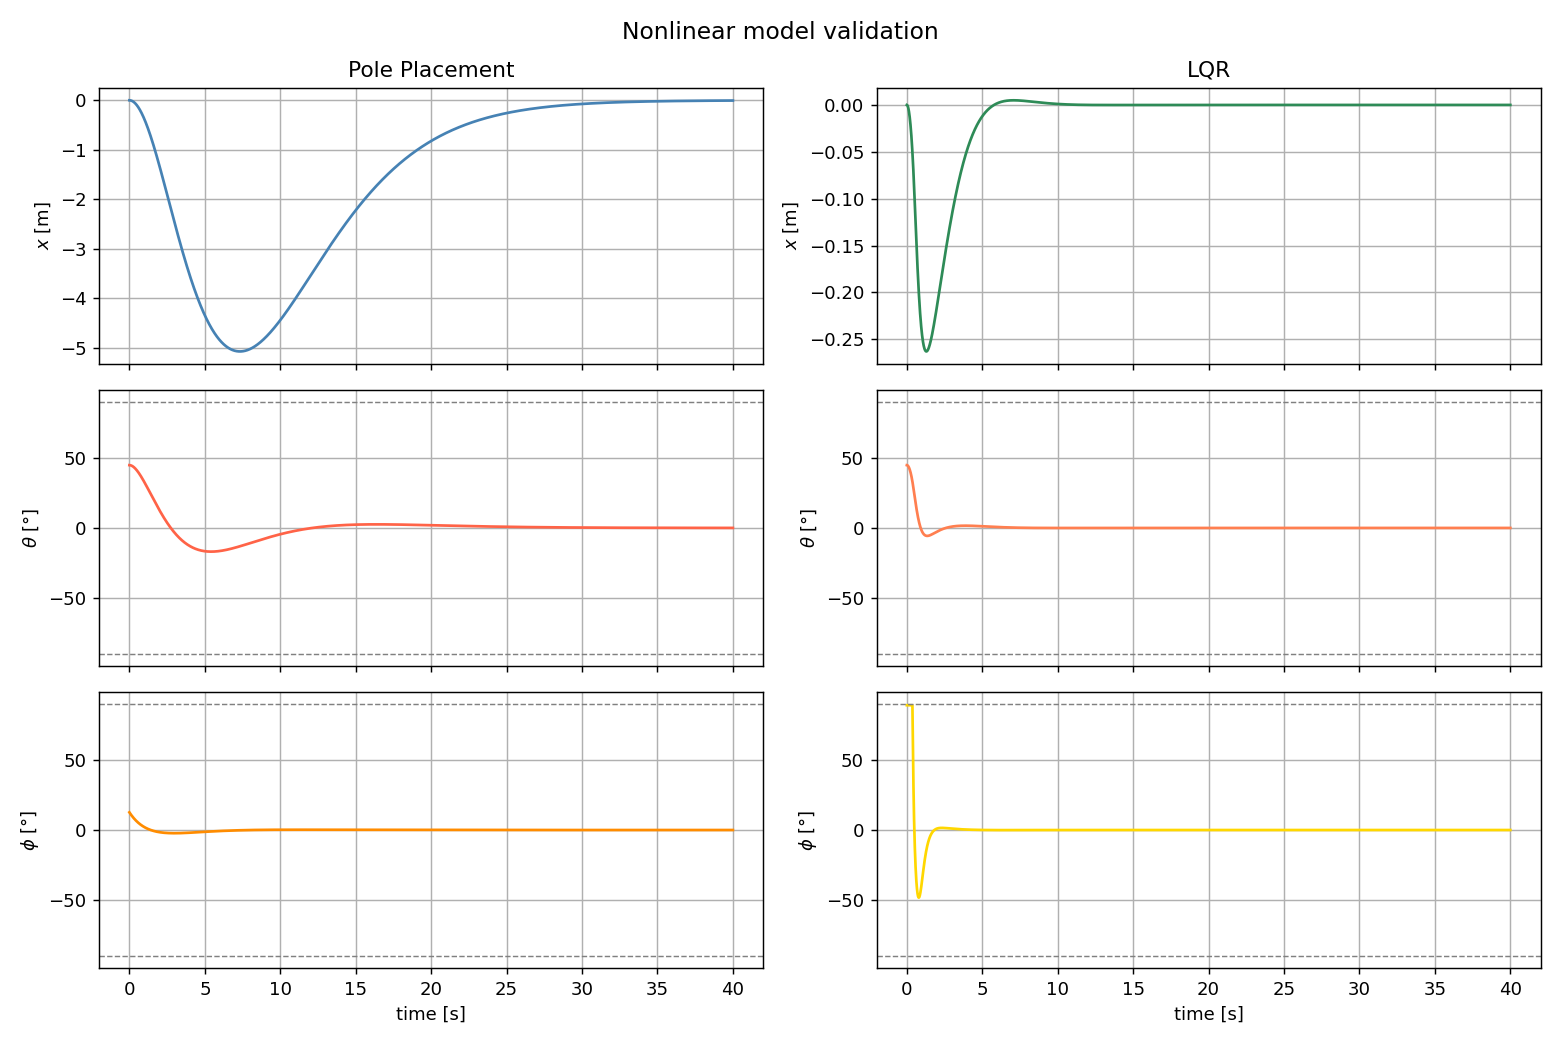
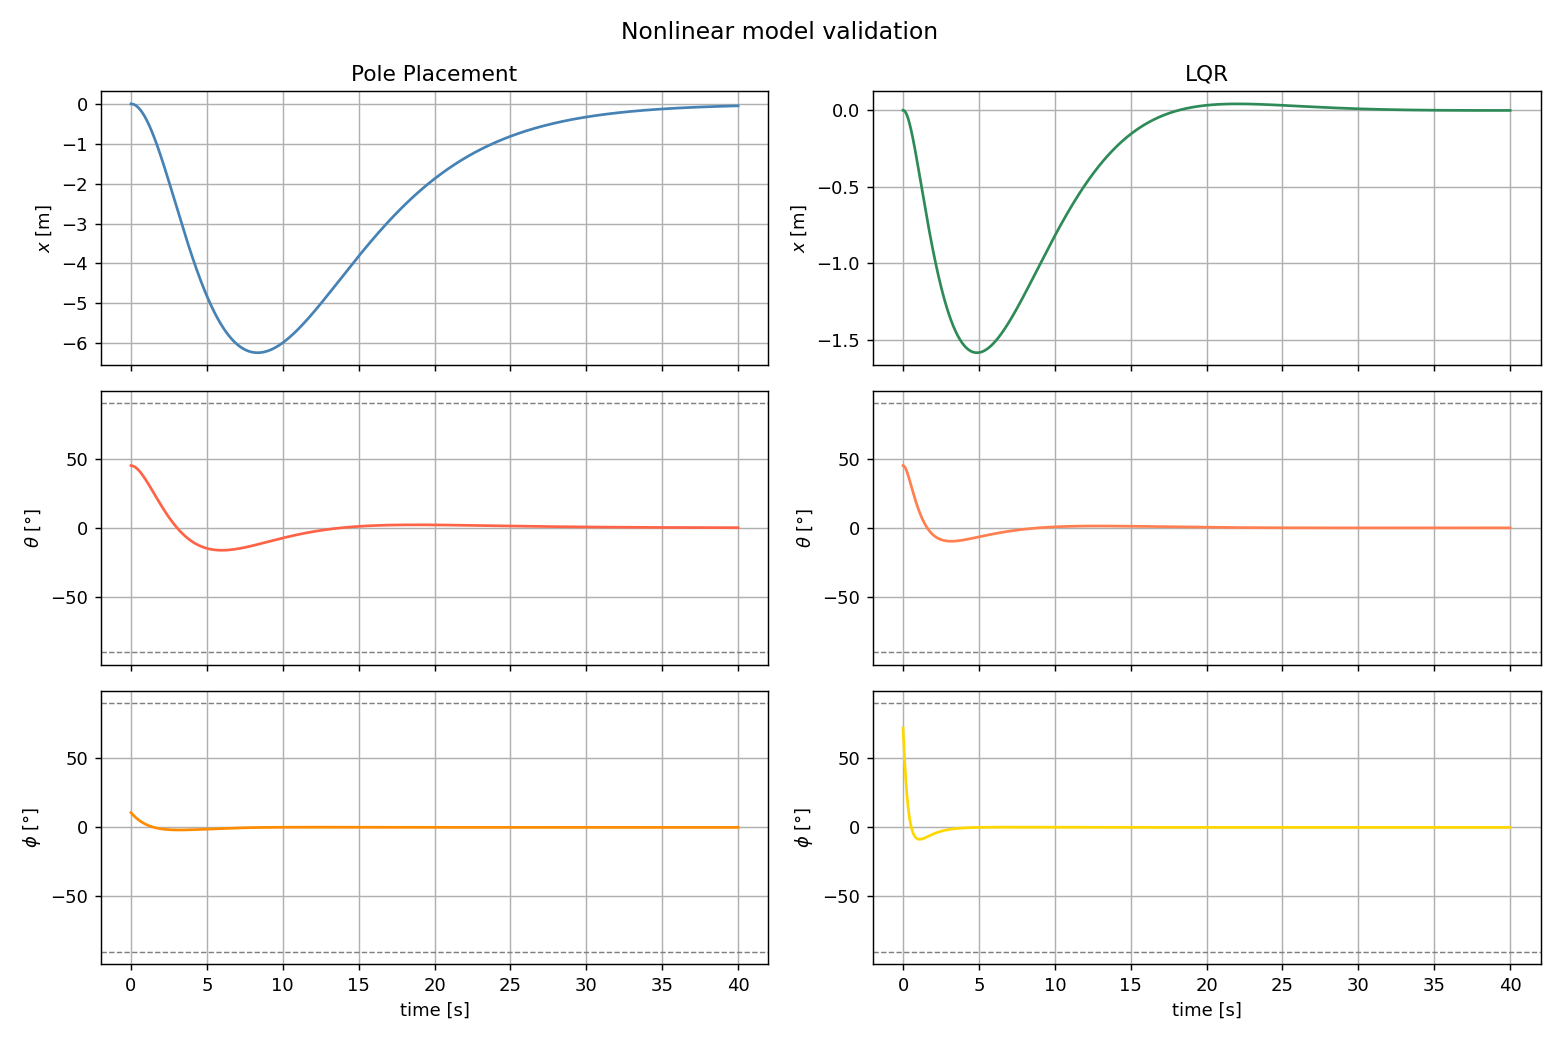
Interprétation géométrique de h

diff --git a/notebook-day-3.py b/notebook-day-3.py
@@ -2254,6 +2254,78 @@ def _(mo):
 @app.cell(hide_code=True)
 def _(mo):
     mo.md(r"""
+    ### 🔓 Solution
+    ### Interprétation géométrique de \( h \)
+
+    On a :
+    \[
+    h=
+    \begin{bmatrix}
+    x - (\ell/6)\sin\theta \\
+    y + (\ell/6)\cos\theta
+    \end{bmatrix}
+    \]
+
+    Cette expression peut s’écrire comme :
+    \[
+    h=
+    \begin{bmatrix}
+    x\\y
+    \end{bmatrix}
+    +\frac{\ell}{6}
+    \begin{bmatrix}
+    -\sin\theta\\
+    \cos\theta
+    \end{bmatrix}
+    \]
+
+    #### 🔎 Interprétation
+
+    - \((x,y)\) est le **centre de masse du booster**.
+    - Le vecteur
+      \[
+      \frac{\ell}{6}(-\sin\theta,\cos\theta)
+      \]
+      est un vecteur dirigé **le long de l’axe du booster**, orienté vers le haut.
+    - Sa norme vaut \(\ell/6\).
+
+    👉 Donc **\(h\) représente la position d’un point situé sur l’axe du booster, à une distance \(\ell/6\) du centre de masse vers le haut**.
+
+    #### 📐 Cas particulier
+
+    Si \(\theta = 0\) (booster vertical) :
+    \[
+    h=
+    \begin{bmatrix}
+    x\\
+    y+\ell/6
+    \end{bmatrix}
+    \]
+
+     Le point \(h\) est simplement **au-dessus du centre de masse**.
+
+    #### 🧠 Intuition
+
+    \(h\) correspond à un **point fixe attaché au corps du booster** (par exemple proche du haut), utilisé comme point de référence pour décrire sa position ou contrôler sa trajectoire.
+
+    #### ✏️ Schéma
+
+        sommet
+          ^
+          |
+          |   h •   ← point à ℓ/6 du centre
+          |
+          •   ← centre de masse (x,y)
+          |
+          |
+       base / réacteur
+    """)
+    return
+
+
[email redacted](hide_code=True)
+def _(mo):
+    mo.md(r"""
     ## 🧩 First and Second-Order Derivatives
 
     Compute $\dot{h}$ as a function of $\dot{x}$, $\dot{y}$, $\theta$ and $\dot{\theta}$ (and constants) and then $\ddot{h}$ as a function of $\theta$ and $z$ (and constants) when the auxiliary system is plugged in the booster.

diff --git a/notebook-day-2.py b/notebook-day-2.py
@@ -1846,10 +1846,10 @@ def _(A_lat, B_lat, np, plt, solve_ivp):
         plt.suptitle("Contrôleur par placement de pôles $K_{pp}$")
         plt.tight_layout()
         plt.show()
-        return (K_pp,)
+        return K_pp,
 
-    _()
-    return
+    K_pp, = _()
+    return K_pp,
 
 
 @app.cell(hide_code=True)
@@ -2002,11 +2002,12 @@ def _(A_lat, B_lat, np, plt, solve_ivp):
 
         plt.suptitle("Contrôleur LQR $K_{oc}$")
         plt.tight_layout()
-        return plt.show()
+        plt.show()
+        return K_oc,
 
 
-    _()
-    return
+    K_oc, = _()
+    return K_oc,
 
 
 @app.cell(hide_code=True)
@@ -2181,8 +2182,8 @@ def _(K_oc, K_pp, mo, np, sol_oc_nl, sol_pp_nl):
 
     | Criterion | Pole Placement | LQR |
     |-----------|:--------------:|:---:|
-    | $|\\Delta\\theta|<\\np.pi/2$ at all times | {('✅' if r_pp[0] else '❌')} | {('✅' if r_oc[0] else '❌')} |
-    | $|\\Delta\\phi|<\\np.pi/2$ at all times   | {('✅' if r_pp[1] else '❌')} | {('✅' if r_oc[1] else '❌')} |
+    | $|\\Delta\\theta|<\\pi/2$ at all times | {('✅' if r_pp[0] else '❌')} | {('✅' if r_oc[0] else '❌')} |
+    | $|\\Delta\\phi|<\\pi/2$ at all times   | {('✅' if r_pp[1] else '❌')} | {('✅' if r_oc[1] else '❌')} |
     | $\\theta\\to 0$ (within 3° at $t=40$ s) | {('✅' if r_pp[2] else '❌')} | {('✅' if r_oc[2] else '❌')} |
     | $x\\to 0$ (within 1 m at $t=40$ s)     | {('✅' if r_pp[3] else '❌')} | {('✅' if r_oc[3] else '❌')} |
 